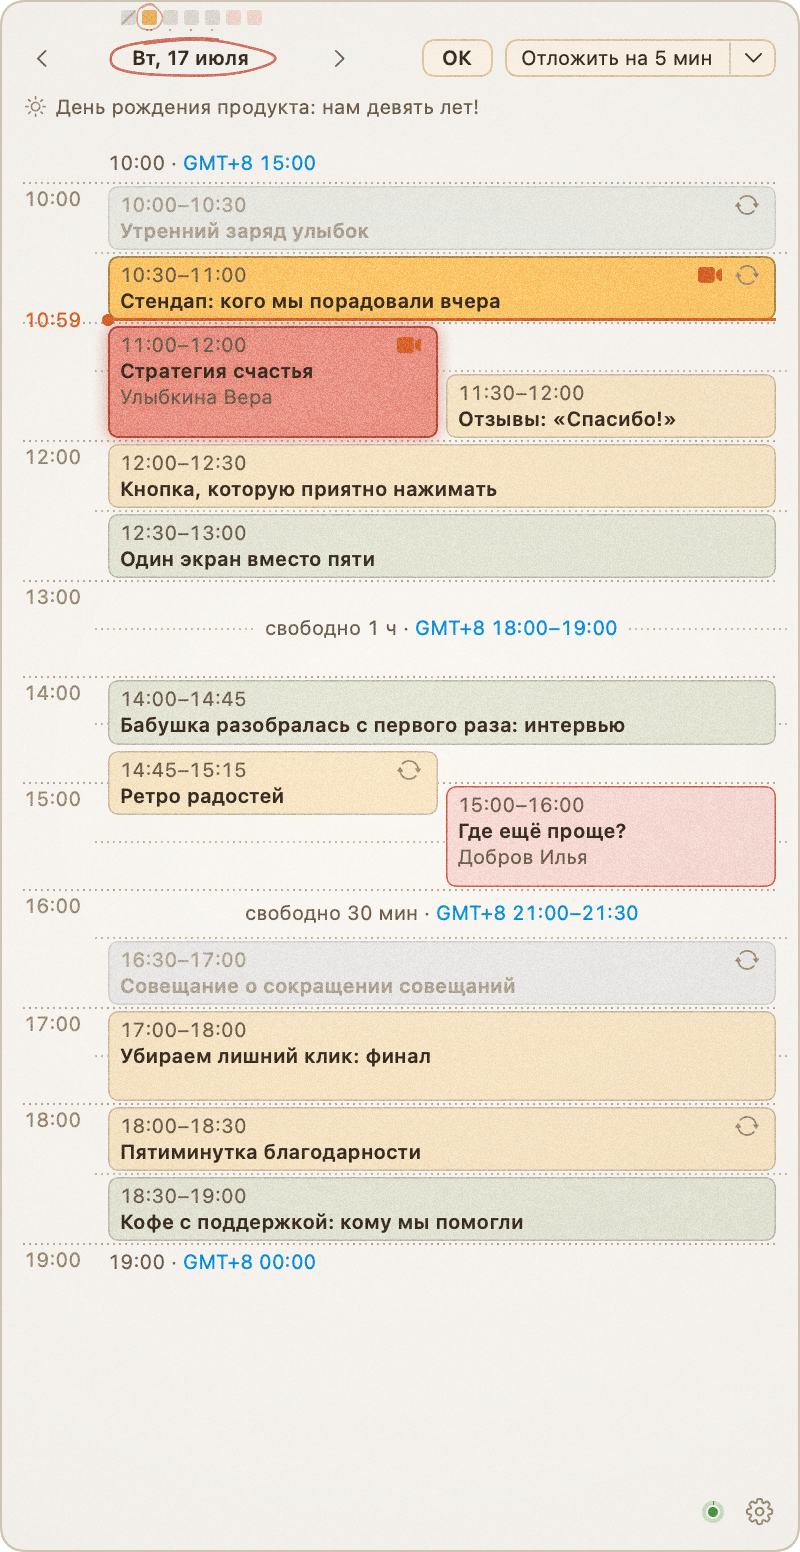
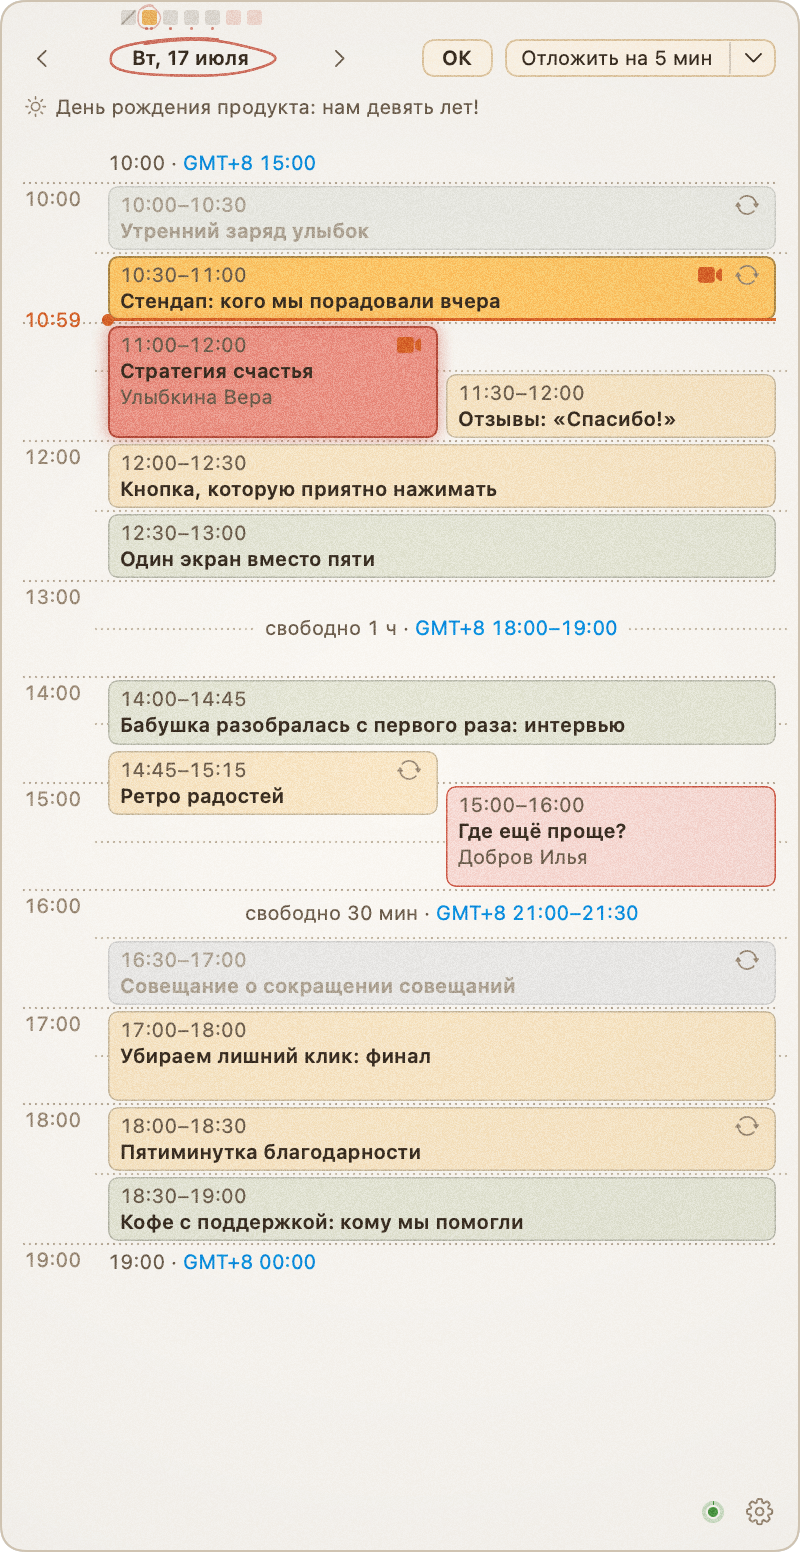
Неделя над датой: точки встреч крупнее и ближе к квадратику, обводка бледнее и теснее
Claude-Session: https://claude.ai/code/session_01SW6W8P3aC11VdsTxCJVhW8

Changed region(s): [[0.125, 0.1546, 0.9688, 0.2784], [0.1562, 0.0, 0.2188, 0.0309]]

diff --git a/Sources/Butler/Panel.swift b/Sources/Butler/Panel.swift
@@ -657,7 +657,7 @@ struct Week: View {
         let size: CGFloat = 7.5
         HStack(spacing: 3) {
             ForEach(week(app.shownDay), id: \.self) { d in
-                VStack(spacing: 2) {
+                VStack(spacing: 1.2) {
                     RoundedRectangle(cornerRadius: 1.5)
                         .fill(d == app.shownDay ? ink(0xF0A028).opacity(0.7)
                               : nonWorking(d, workdays: app.state.workdays) ? ink(0xE07A64).opacity(0.22) : Ink.secondary.opacity(0.17))
@@ -673,15 +673,15 @@ struct Week: View {
                         }
                         .overlay {
                             if app.config.markedDays.contains(d) {
-                                Pencil().stroke(ink(0xCF5F4C).opacity(0.5), style: StrokeStyle(lineWidth: 0.8, lineCap: .round))
-                                    .padding(-2.5)
+                                Pencil().stroke(ink(0xCF5F4C).opacity(0.38), style: StrokeStyle(lineWidth: 0.8, lineCap: .round))
+                                    .padding(-1.8)
                             }
                         }
                     let vip = min(app.knownMeetings(d)?.filter { important($0, app.state) }.count ?? 0, 3)
                     HStack(spacing: 1) {
-                        ForEach(0..<vip, id: \.self) { _ in Circle().fill(ink(0xCF5F4C).opacity(0.7)).frame(width: 1, height: 1) }
+                        ForEach(0..<vip, id: \.self) { _ in Circle().fill(ink(0xCF5F4C).opacity(0.7)).frame(width: 1.5, height: 1.5) }
                     }
-                    .frame(height: 1)
+                    .frame(height: 1.5)
                 }
             }
         }
